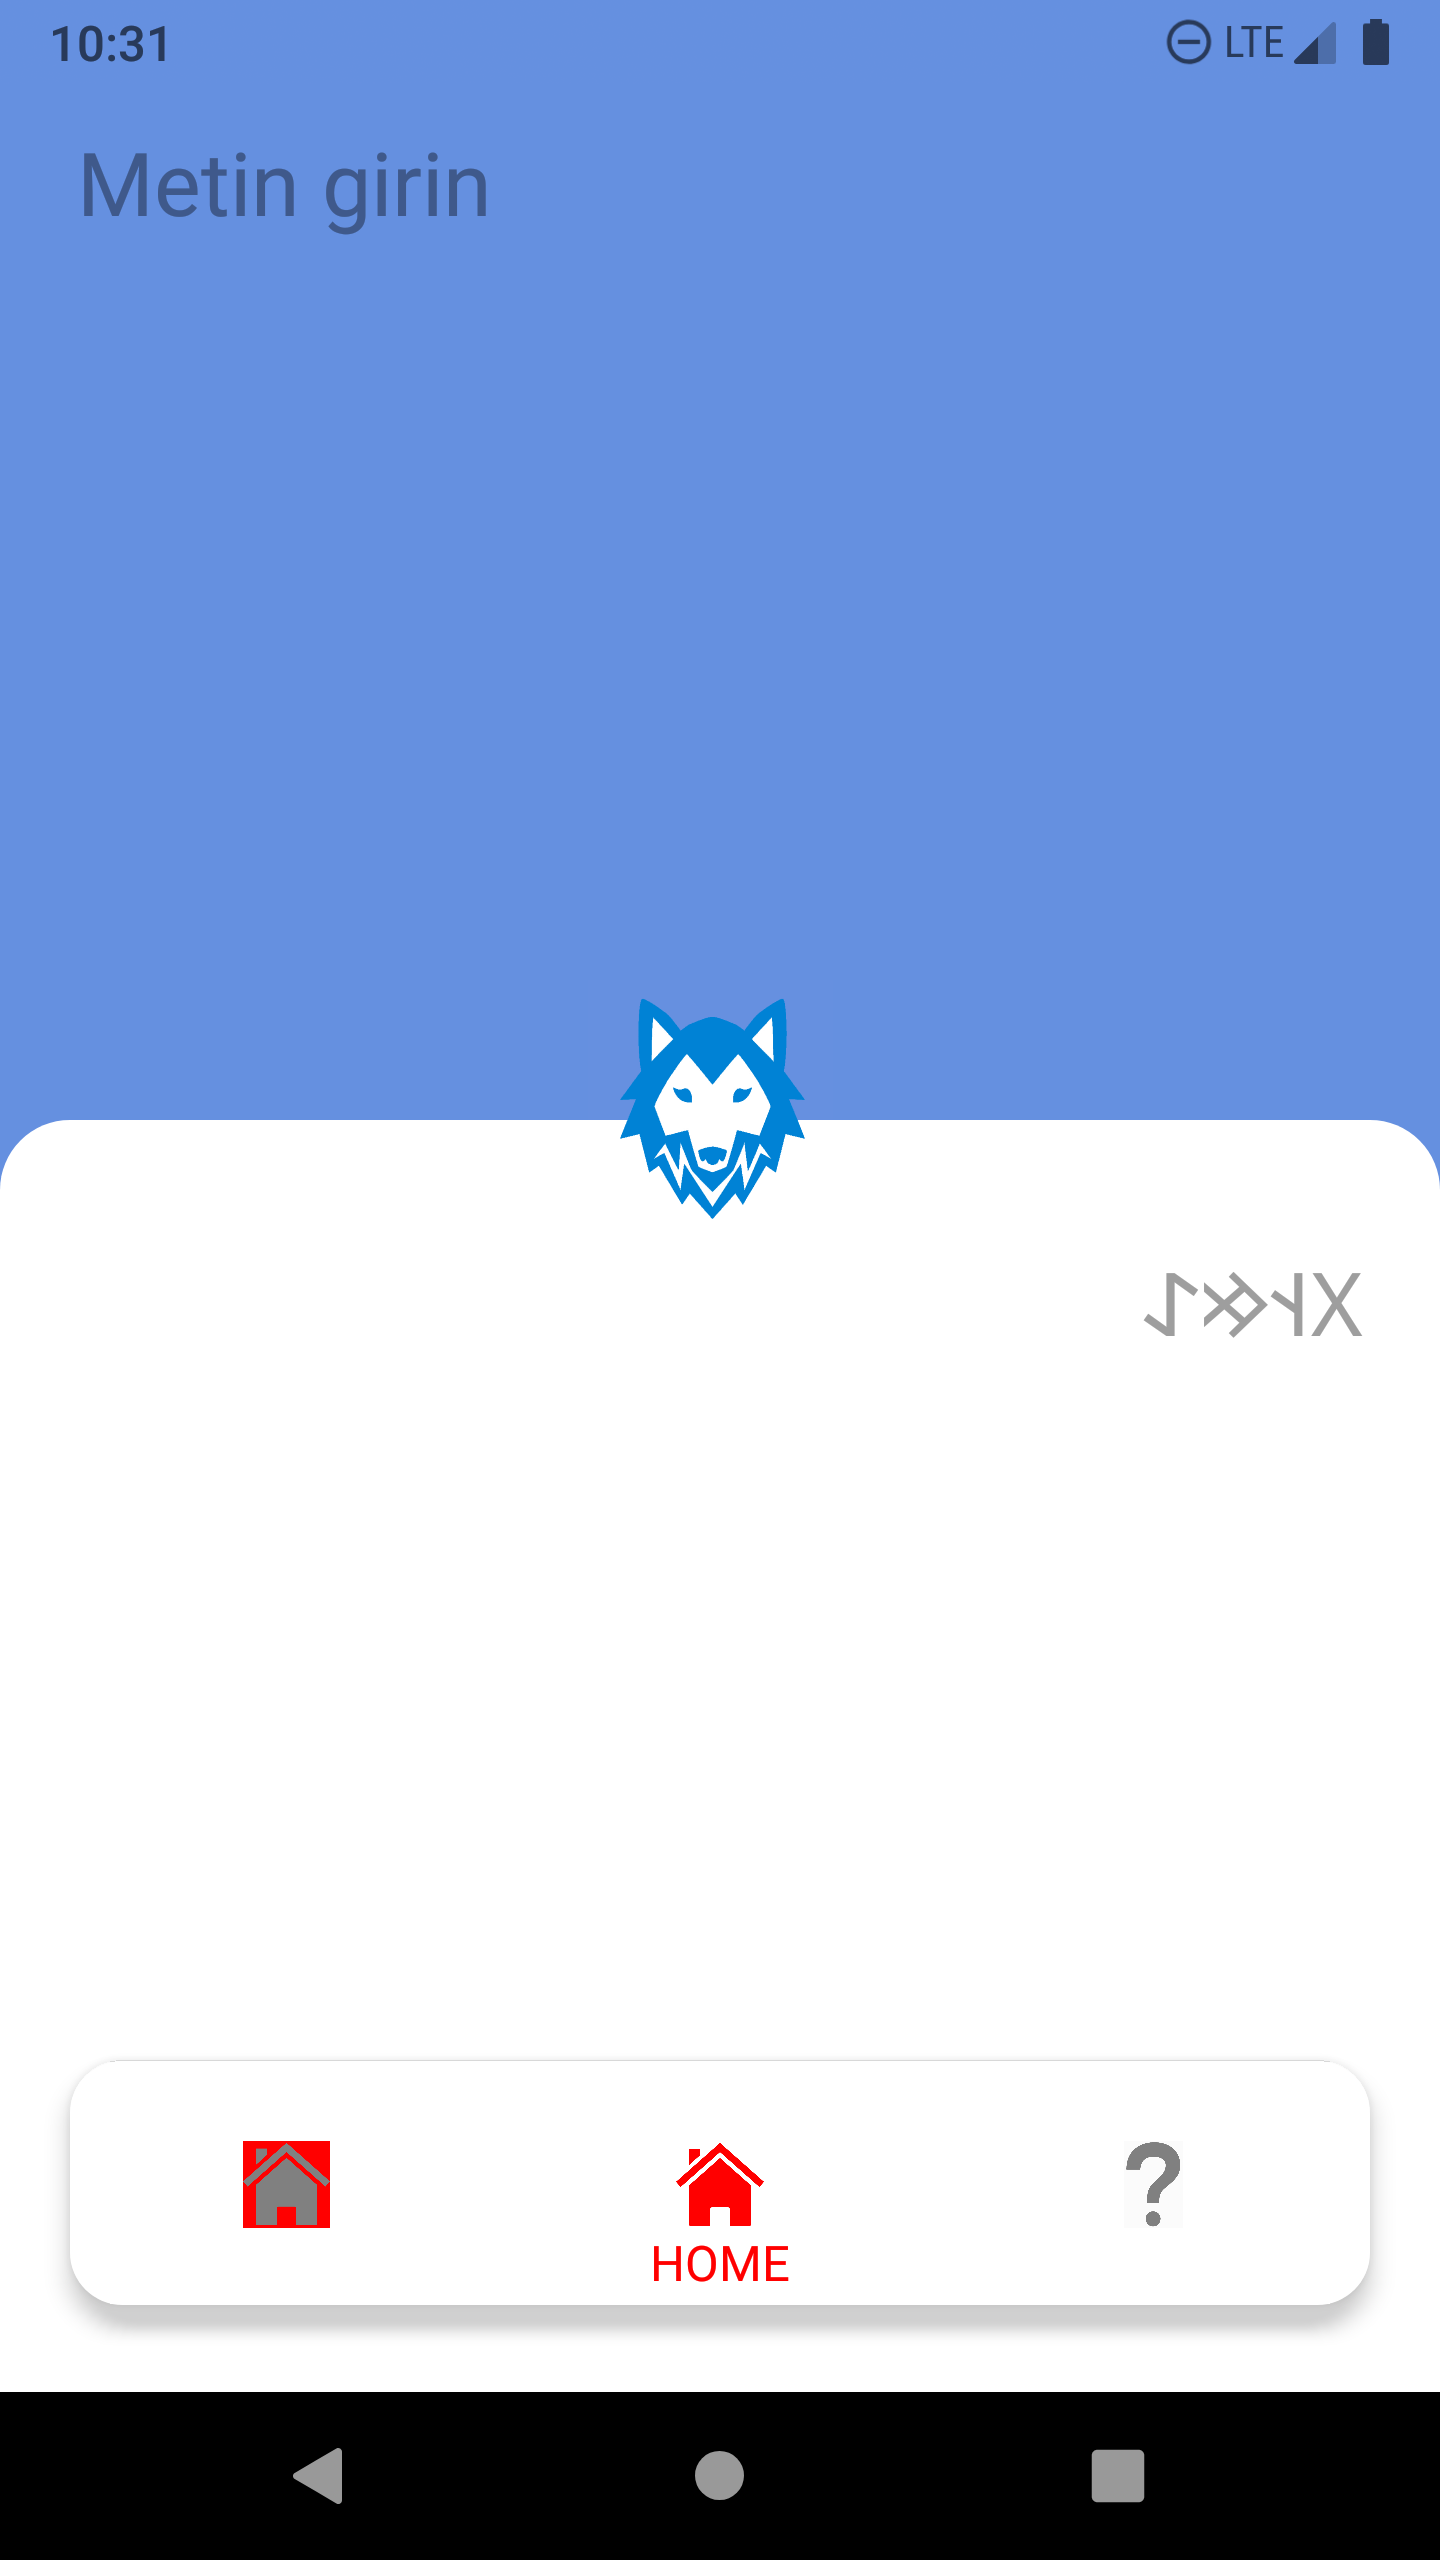
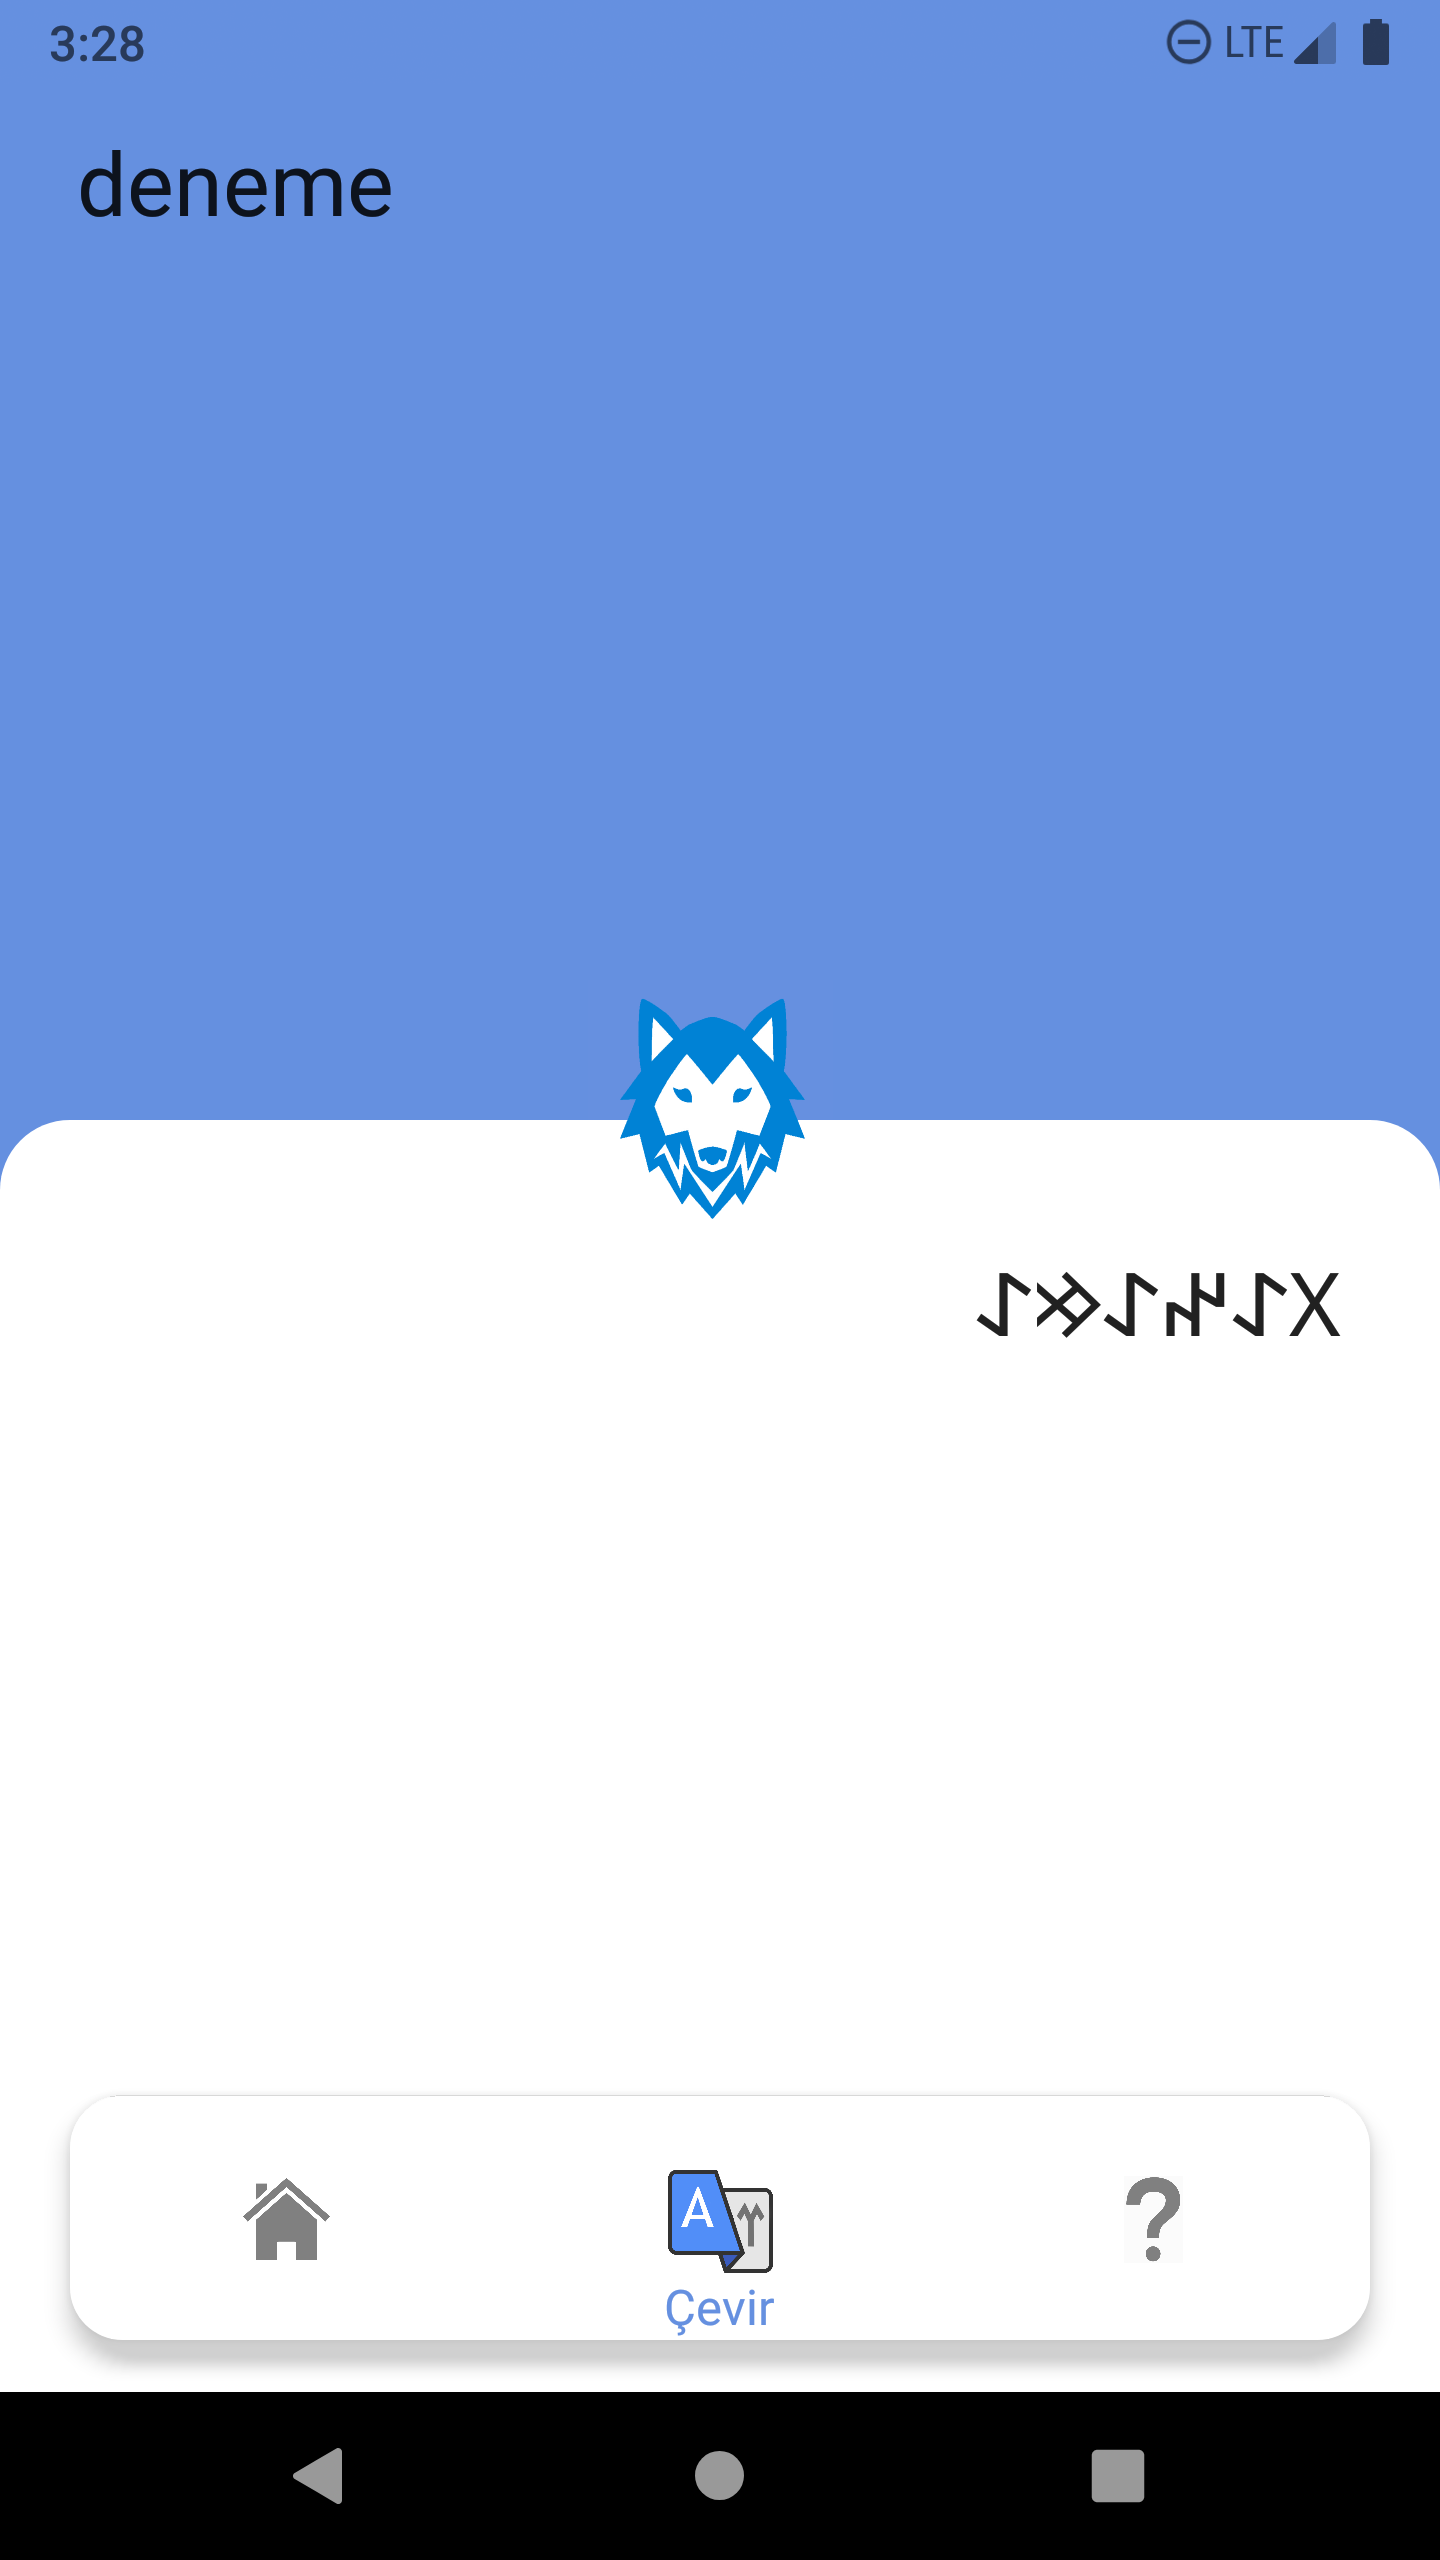
Main funcitonz codded

diff --git a/screens/Home.js b/screens/Home.js
@@ -1,12 +1,200 @@
 import React, { useState } from "react";
 import { StyleSheet, Text, View, TextInput, Image, Keyboard } from 'react-native';
-import FunctionZ from "../components/FunctionZ";
 
 
 
 const Home = ({ navigation }) => {
 
-  const [text, setText] = useState("")
+
+  const [text, setText] = useState("");
+
+  let exit = ""
+  const replacementMap = {
+      "iç": "𐰱",
+      "ık": "𐰶",
+      "ok": "𐰸",
+      "uk": "𐰸",
+      "ök": "𐰰",
+      "ük": "𐰰",
+      "nç": "𐰨",
+      "ng": "𐰭",
+      "ny": "𐰪",
+      "nd": "𐰦",
+      "ld": "𐰡",
+
+      "ka": "𐰴𐰀",
+      "ke": "𐰚𐰀",
+      "kı": "𐰴𐰃",
+      "ki": "𐰚𐰃",
+      "ko": "𐰴𐰆",
+      "kö": "𐰚𐰇",
+      "ku": "𐰴𐰆",
+      "kü": "𐰚𐰇",
+
+      "ba": "𐰉𐰀",
+      "be": "𐰋𐰀",
+      "bı": "𐰉𐰃",
+      "bi": "𐰋𐰃",
+      "bo": "𐰉𐰆",
+      "bö": "𐰋𐰇",
+      "bu": "𐰉𐰆",
+      "bü": "𐰋𐰇",
+
+      "da": "𐰑𐰀",
+      "de": "𐰓𐰀",
+      "dı": "𐰑𐰃",
+      "di": "𐰓𐰃",
+      "do": "𐰑𐰆",
+      "dö": "𐰓𐰇",
+      "du": "𐰑𐰆",
+      "dü": "𐰓𐰇",
+
+      "ga": "𐰍𐰀",
+      "ge": "𐰏𐰀",
+      "gı": "𐰍𐰃",
+      "gi": "𐰏𐰃",
+      "go": "𐰍𐰆",
+      "gö": "𐰏𐰇",
+      "gu": "𐰍𐰆",
+      "gü": "𐰏𐰇",
+
+      "la": "𐰞𐰀",
+      "le": "𐰠𐰀",
+      "lı": "𐰞𐰃",
+      "li": "𐰠𐰃",
+      "lo": "𐰞𐰆",
+      "lö": "𐰠𐰇",
+      "lu": "𐰞𐰆",
+      "lü": "𐰠𐰇",
+
+      "na": "𐰣𐰀",
+      "ne": "𐰤𐰀",
+      "nı": "𐰣𐰃",
+      "ni": "𐰤𐰃",
+      "no": "𐰣𐰆",
+      "nö": "𐰤𐰇",
+      "nu": "𐰣𐰆",
+      "nü": "𐰤𐰇",
+
+      "ra": "𐰺𐰀",
+      "re": "𐰼𐰀",
+      "rı": "𐰺𐰃",
+      "ri": "𐰼𐰃",
+      "ro": "𐰺𐰆",
+      "rö": "𐰼𐰇",
+      "ru": "𐰺𐰆",
+      "rü": "𐰼𐰇",
+
+      "sa": "𐰽𐰀",
+      "se": "𐰾𐰀",
+      "sı": "𐰽𐰃",
+      "si": "𐰾𐰃",
+      "so": "𐰽𐰆",
+      "sö": "𐰾𐰇",
+      "su": "𐰽𐰆",
+      "sü": "𐰾𐰇",
+
+      "ta": "𐱃𐰀",
+      "te": "𐱅𐰀",
+      "tı": "𐱃𐰃",
+      "ti": "𐱅𐰃",
+      "to": "𐱃𐰆",
+      "tö": "𐱅𐰇",
+      "tu": "𐱃𐰆",
+      "tü": "𐱅𐰇",
+
+      "ya": "𐰖𐰀",
+      "ye": "𐰘𐰀",
+      "yı": "𐰖𐰃",
+      "yi": "𐰘𐰃",
+      "yo": "𐰖𐰆",
+      "yö": "𐰘𐰇",
+      "yu": "𐰖𐰆",
+      "yü": "𐰘𐰇",
+
+      "ya": "𐰖𐰀",
+      "ye": "𐰘𐰀",
+      "yı": "𐰖𐰃",
+      "yi": "𐰘𐰃",
+      "yo": "𐰖𐰆",
+      "yö": "𐰘𐰇",
+      "yu": "𐰖𐰆",
+      "yü": "𐰘𐰇",
+
+      "a": "𐰀",
+      "b": "𐰉",
+      "c": "𐰲",
+      "ç": "𐰲",
+      "d": "𐰓",
+      "e": "𐰀",
+      "f": "𐰯",
+      "g": "𐰍",
+      "ğ": "𐰍",
+      "h": "𐰚",
+      "i": "𐰃",
+      "ı": "𐰃",
+      "j": "𐰖",
+      "k": "𐰚",
+      "l": "𐰠",
+      "m": "𐰢",
+      "n": "𐰣",
+      "o": "𐰆",
+      "ö": "𐰇",
+      "p": "𐰯",
+      "r": "𐰼",
+      "s": "𐰾",
+      "ş": "𐱁",
+      "t": "𐱃",
+      "u": "𐰆",
+      "ü": "𐰇",
+      "v": "𐰉",
+      "y": "𐰖",
+      "z": "𐰔",
+      "da": "𐰑𐰀",
+      "de": "𐰓𐰀",
+      "dı": "𐰑𐰃",
+      "di": "𐰓𐰃",
+      "do": "𐰑𐰆",
+      "dö": "𐰓𐰇",
+      "du": "𐰑𐰆",
+      "dü": "𐰓𐰇",
+  };
+
+  let newText = text.toLowerCase()
+  console.log(newText);
+
+  let arrayWord = newText.split(" ")
+
+
+  for (let i = 0; i < arrayWord.length; i++) {
+      let ok = ""
+      let currentWord = arrayWord[i]
+
+      for (let i = 0; i < currentWord.length; i++) {
+          if (i !== 0 && i !== currentWord.length - 1 && currentWord[i] === "a") {
+              continue
+          }
+          if (i !== 0 && i !== currentWord.length - 1 && currentWord[i] === "e") {
+              continue
+          }
+          ok += currentWord[i]
+          console.log(ok);
+      }
+      console.log(ok);
+      Object.keys(replacementMap).forEach(key => {
+          if (currentWord.includes(key)) {
+              currentWord = currentWord.replace(new RegExp(key, 'g'), replacementMap[key]);
+          }
+      })
+      if (i !== arrayWord.at(-1)) {
+          exit = exit + " ";
+      }
+
+      exit += currentWord;
+    
+  }
+
+  console.log(exit);
 
   return (
     <View style={styles.container}>
@@ -20,8 +208,7 @@ const Home = ({ navigation }) => {
         />
       </View>
        
-      <FunctionZ text={text} />
-      
+
       <View style={styles.wolfHead}>
         <Image
           style={styles.img}
@@ -30,7 +217,7 @@ const Home = ({ navigation }) => {
       </View>
 
       <View style={styles.lowerCase}>
-        <TextInput style={styles.output} placeholder='𐰓𐰭𐰢𐰀' />
+        <TextInput style={styles.output} placeholder='𐰓𐰭𐰢𐰀' value={exit} />
       </View>
 
       <View style={styles.otherElementZ}>

diff --git a/navigation/Tabs.js b/navigation/Tabs.js
@@ -19,7 +19,7 @@ function Tabs() {
         tabBarHideOnKeyboard: true,
         tabBarStyle: {
           position: 'absolute',
-          bottom: 25,
+          bottom: 15,
           left: 20,
           right: 20,
           elevation: 0,
@@ -31,8 +31,7 @@ function Tabs() {
       }}
     >
 
-      <Tab.Screen name="help" component={Help}
-        options={{
+      <Tab.Screen name="help" component={Help} options={{
           tabBarIcon: ({ focused }) => (
             <View style={{ alignItems: 'center', justifyContent: 'center', top: 10 }}>
               <Image
@@ -41,10 +40,10 @@ function Tabs() {
                 style={{
                   width: 25,
                   height: 25,
-                  tintColor: focused ? 'red' : 'gray',
+                  tintColor: focused ? '#6590e0' : 'gray',
                 }}
               />
-              <Text style={{ color: focused ? 'red' : 'white' }}>Help</Text>
+              <Text style={{ color: focused ? '#6590e0' : 'white' }}>Help</Text>
             </View>
           ),
         }}
@@ -52,16 +51,15 @@ function Tabs() {
 
       <Tab.Screen name="Home" component={Home} options={{
         tabBarIcon: ({ focused }) => (
-          <View style={{ alignItems: "center", justifyContent: "center", top: 10 }}>
-            <Image source={require("../assets/home.png")}
+          <View style={{ alignItems: "center", justifyContent: "center", top: 10}}>
+            <Image source={require("../assets/gtrkTranslate.png")}
               resizeMode="contain"
               style={{
-                width: 25,
-                height: 25,
-                tintColor: focused ? "red" : "gray"
+                width: 45,
+                height: 30,
               }}
             />
-            <Text style={{ color: focused ? "red" : "white" }}>HOME</Text>
+            <Text style={{ color: focused ? "#6590e0" : "white"}}>Çevir</Text>
           </View>
         ),
       }} />
@@ -74,13 +72,14 @@ function Tabs() {
               style={{
                 width: 25,
                 height: 25,
-                tintColor: focused ? "red" : "gray"
+                tintColor: focused ? "#6590e0" : "gray"
               }}
             />
-            <Text style={{ color: focused ? "red" : "white" }}>INFO</Text>
+            <Text style={{ color: focused ? "#6590e0" : "white" }}>BİLGİ</Text>
           </View>
         ),
       }} />
+
     </Tab.Navigator>
   );
 }
